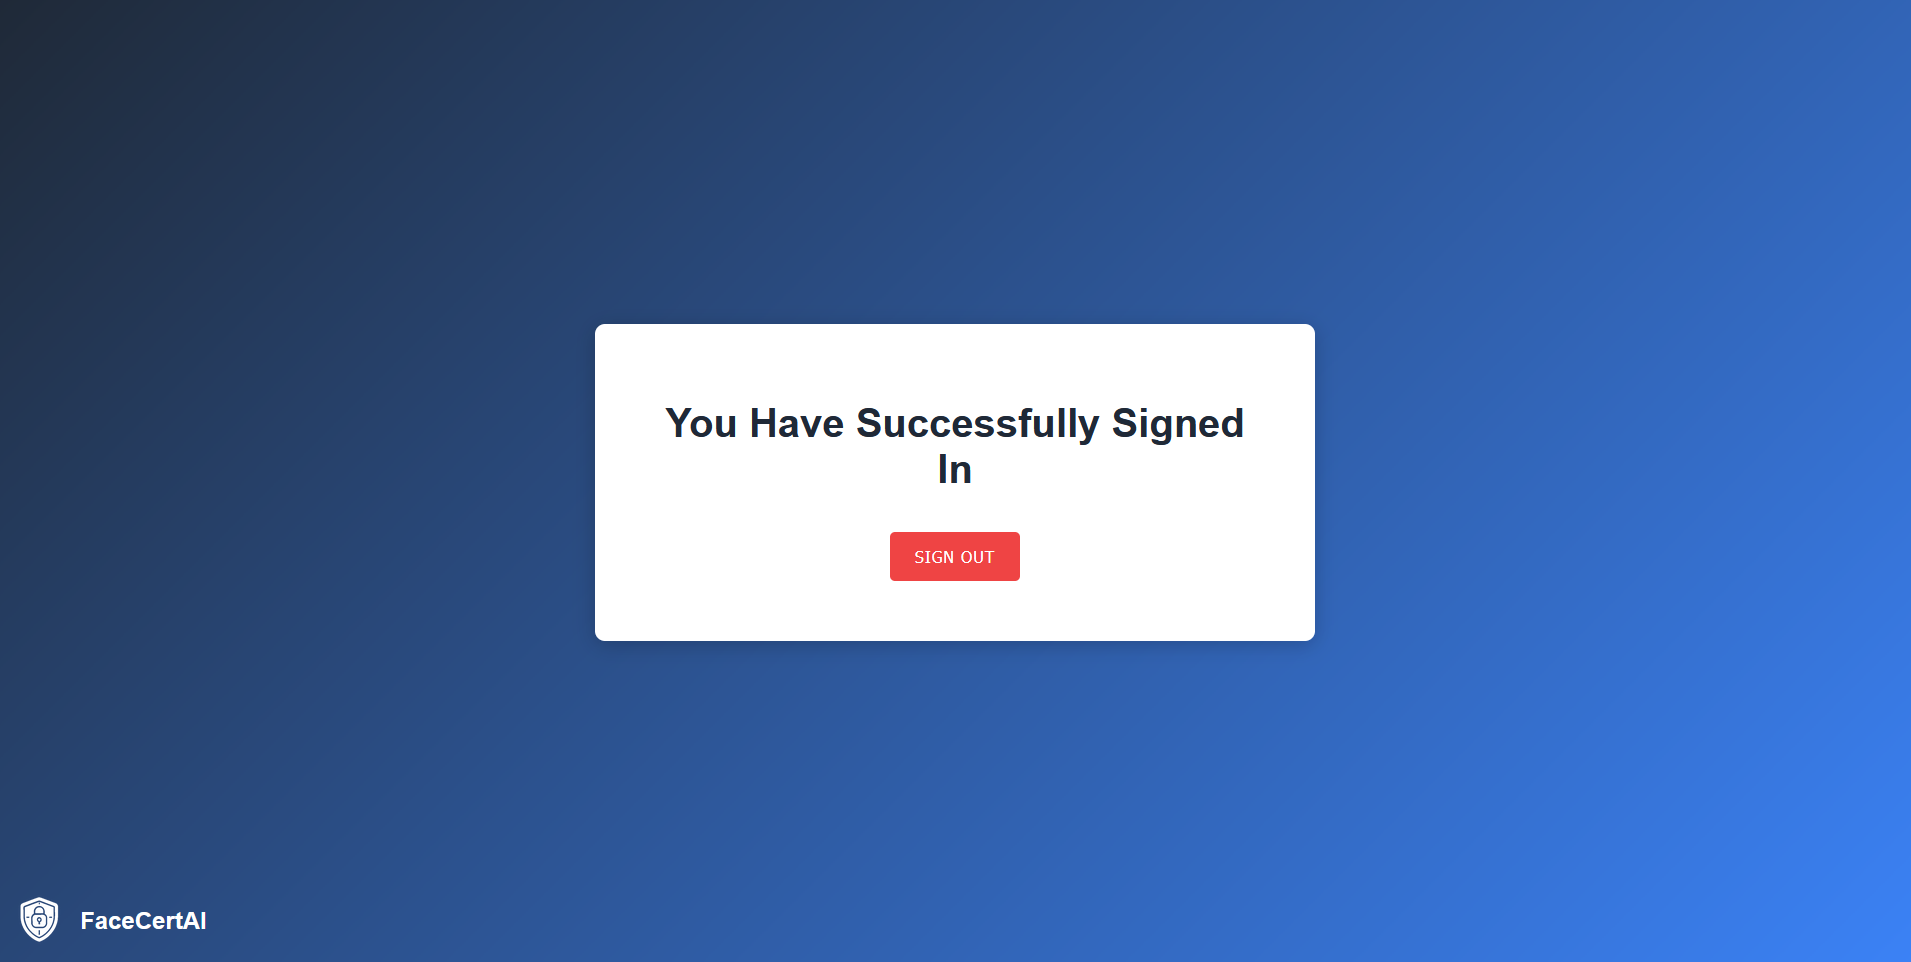
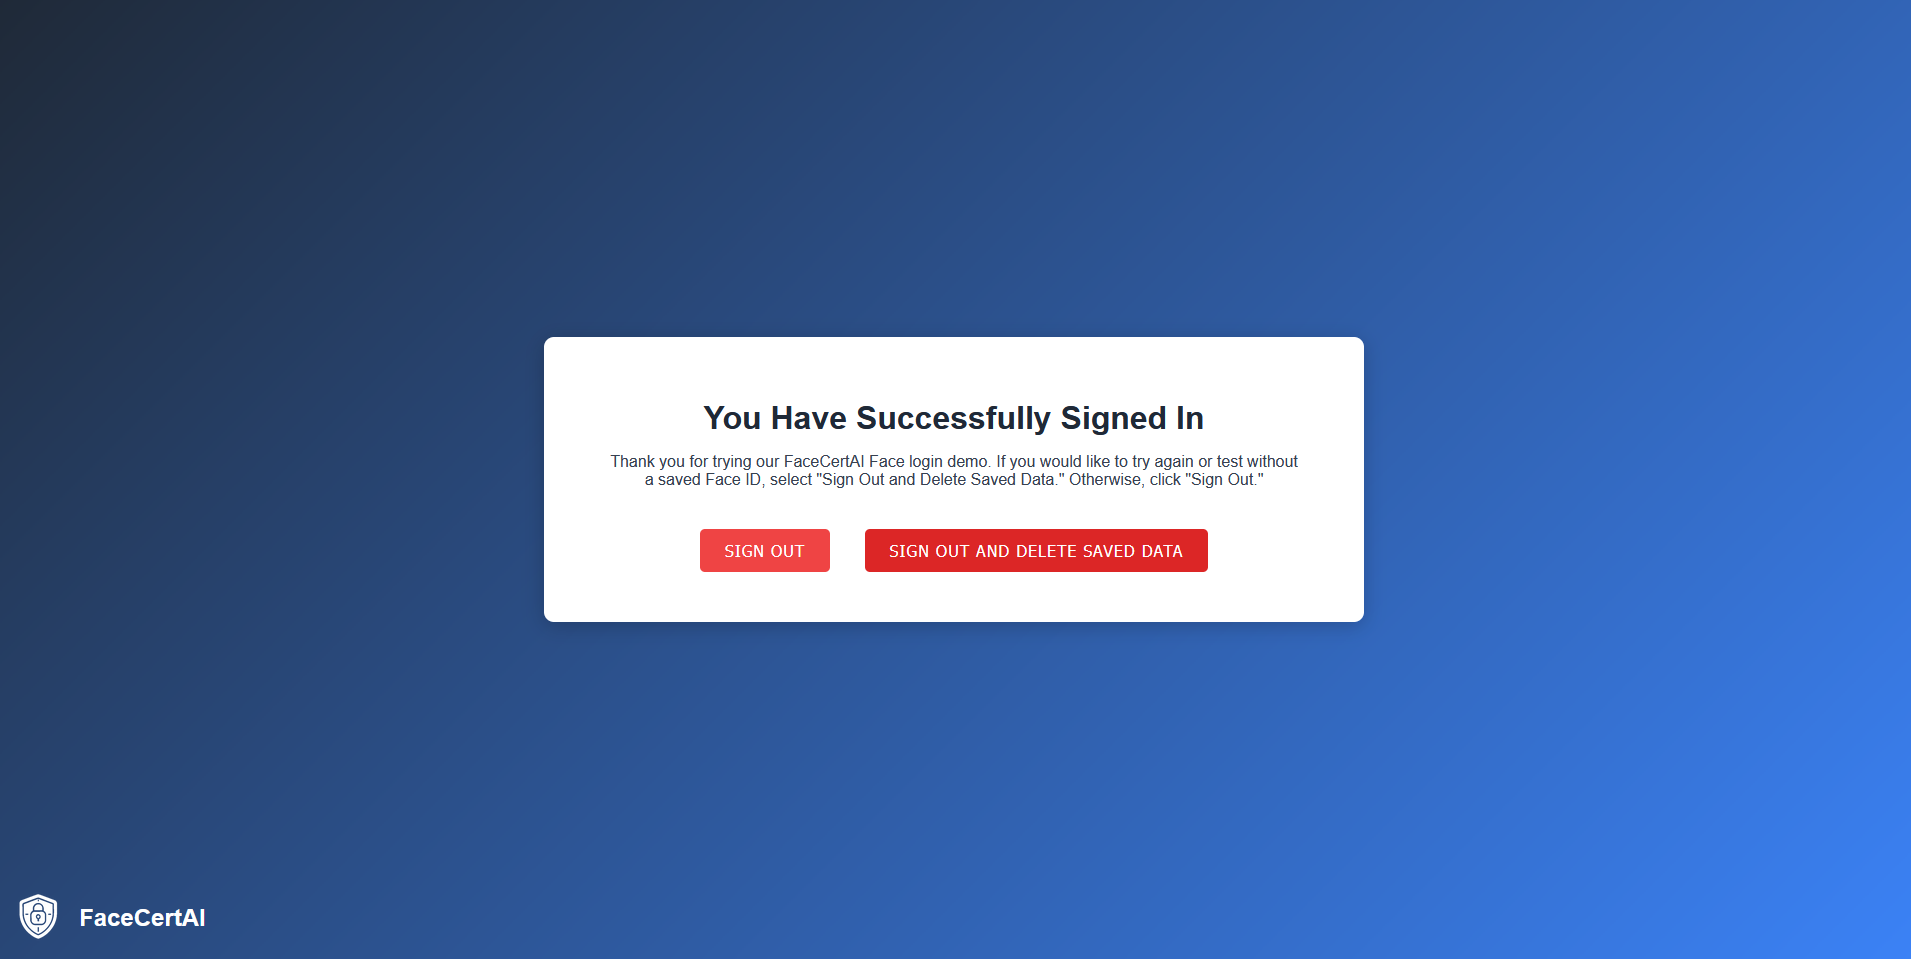
Updated Signed-In Page and corresponding screenshot

Changed region(s): [[0.2779, 0.3326, 0.741, 0.6653], [0.3396, 0.5443, 0.6484, 0.6048], [0.0, 0.9374, 0.1235, 0.9677]]

diff --git a/src/main/resources/templates/signed-in.html b/src/main/resources/templates/signed-in.html
@@ -19,22 +19,28 @@
             text-align: center;
             background: white;
             border-radius: 10px;
-            padding: 50px 60px;
+            padding: 40px 60px;
             box-shadow: 0 4px 20px rgba(0, 0, 0, 0.2);
-            width: 600px;
+            width: 700px;
         }
 
         h1 {
-            font-size: 2.5rem;
-            margin-bottom: 30px;
+            font-size: 2rem;
+            margin-bottom: 15px;
             color: #1f2937;
+        }
+
+        .description {
+            font-size: 1rem;
+            margin-bottom: 30px;
+            color: #374151;
         }
 
         .button {
             display: inline-block;
-            padding: 15px 25px;
+            padding: 12px 25px;
             font-size: 1rem;
-            margin: 10px 10px;
+            margin: 10px 15px;
             border: none;
             border-radius: 5px;
             cursor: pointer;
@@ -53,14 +59,14 @@
             color: #ef4444;
         }
 
-        .button.return-login {
-            background-color: #3b82f6;
+        .button.delete-data {
+            background-color: #dc2626;
             color: white;
         }
 
-        .button.return-login:hover {
+        .button.delete-data:hover {
             background-color: white;
-            color: #3b82f6;
+            color: #dc2626;
         }
 
         .logo-section {
@@ -86,12 +92,29 @@
 <body>
 <div class="container">
     <h1>You Have Successfully Signed In</h1>
+    <p class="description">Thank you for trying our FaceCertAI Face login demo. If you would like to try again or test without a saved Face ID, select "Sign Out and Delete Saved Data." Otherwise, click "Sign Out."</p>
     <button class="button sign-out" onclick="window.location.href='/'">Sign Out</button>
+    <button class="button delete-data" onclick="deleteDataAndSignOut()">Sign Out and Delete Saved Data</button>
 </div>
 
 <div class="logo-section">
     <img src="/static/images/logo.png" alt="FaceCert AI Logo">
     <span>FaceCertAI</span>
 </div>
+
+<script>
+    function deleteDataAndSignOut() {
+        // Clear IndexedDB
+        const request = indexedDB.deleteDatabase("FaceCertDB");
+        request.onsuccess = () => {
+            console.log("IndexedDB data deleted successfully.");
+            window.location.href = "/";
+        };
+        request.onerror = () => {
+            console.error("Error deleting IndexedDB data.");
+            alert("Failed to delete saved data. Please try again.");
+        };
+    }
+</script>
 </body>
 </html>
